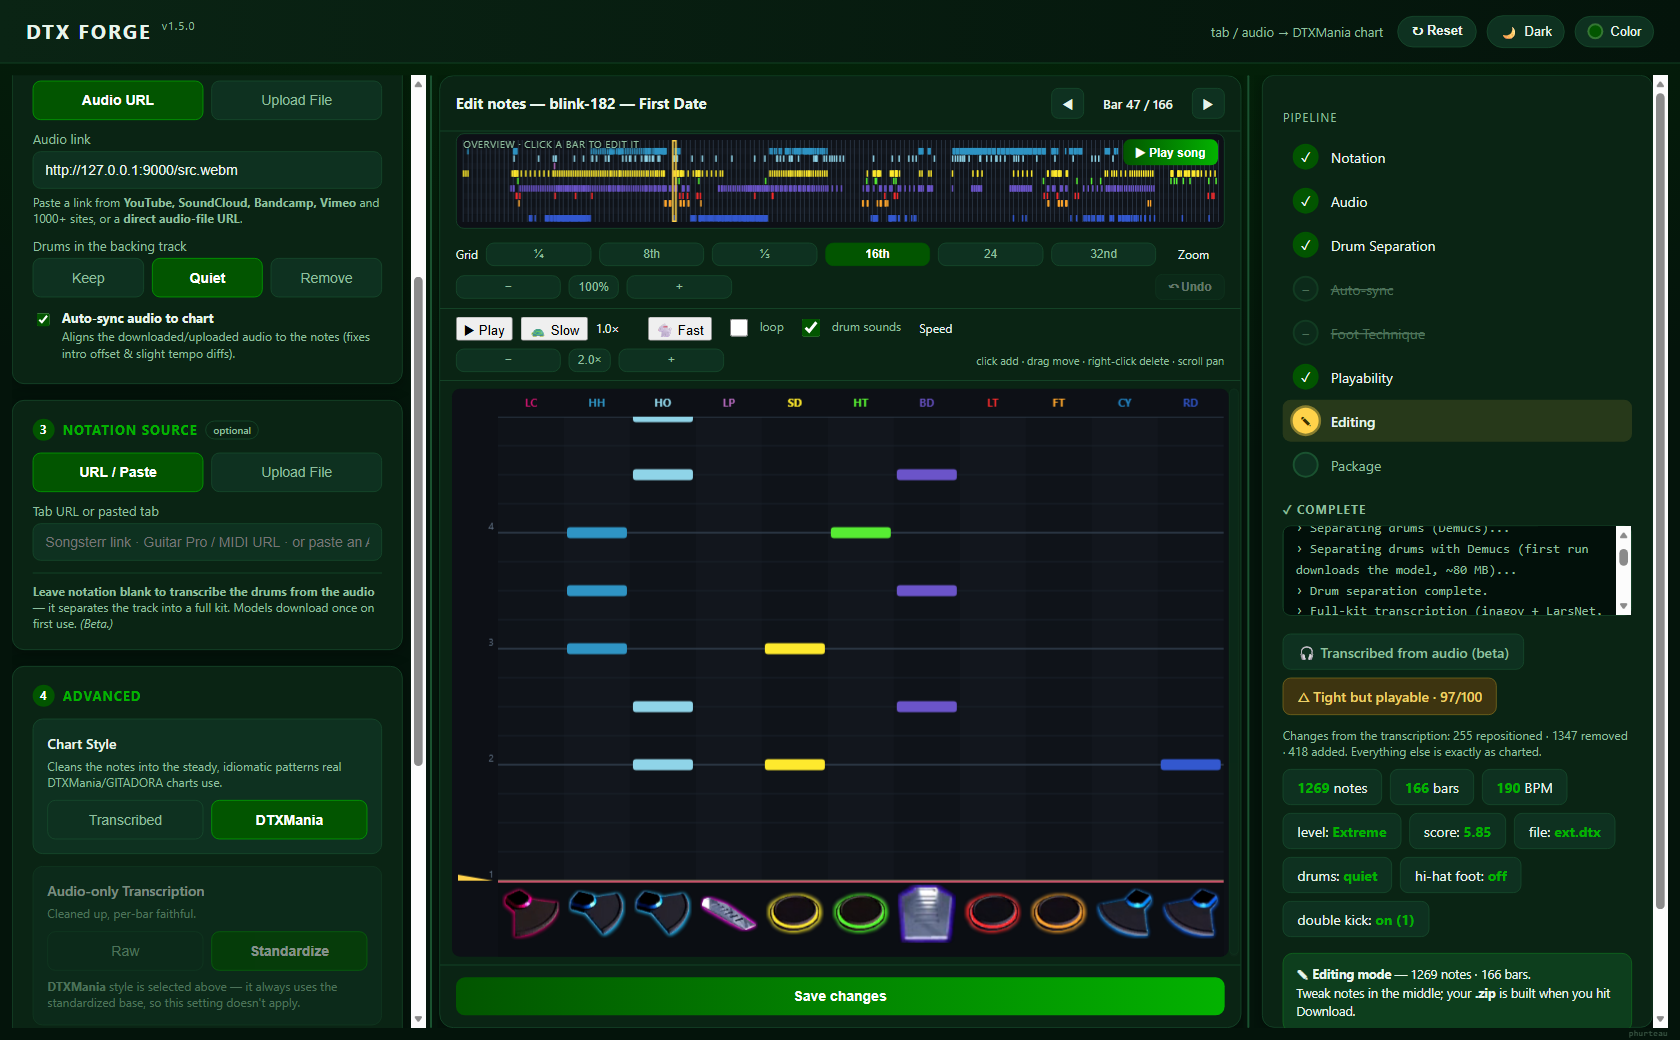
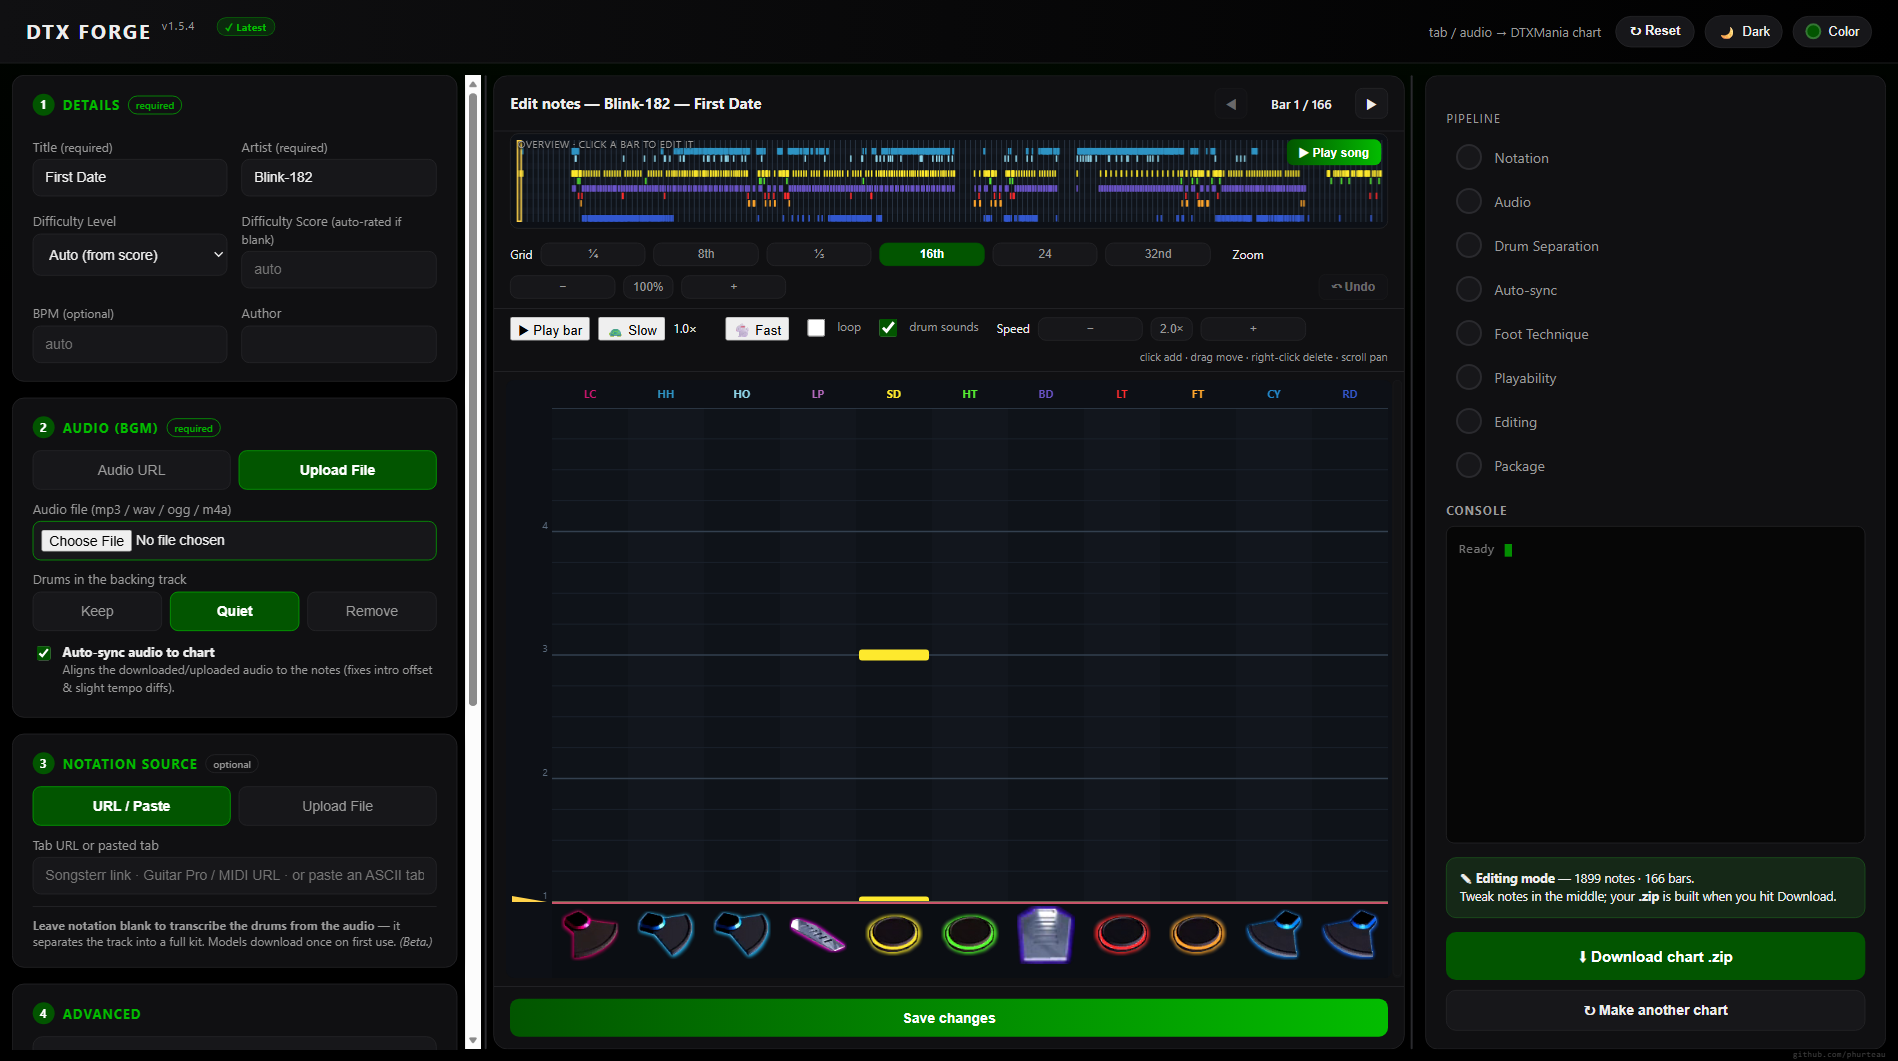
v1.5.4: per-song drum sampling, latest-version indicator, update-bar fix
- Audio-only charts now voice each drum chip with a one-shot sliced from the song's
  own separated stems (kick/snare/toms/hats/ride/crash), so the kit sounds like the
  real recording. Hybrid: any lane without a clean isolated hit keeps the synth sample.
- Header shows a "Latest" badge when on the newest release, and an "Update available"
  badge (plus the download banner) when behind.
- Fix: an empty update bar could render at the top on the latest version (a .hidden vs
  .updbar CSS specificity conflict); the banner now only shows for a genuine update.
- Refresh README screenshot for the black UI + editor.

diff --git a/web/index.html b/web/index.html
@@ -98,6 +98,9 @@
   .stop:disabled{opacity:.4;cursor:not-allowed}
   .stop:hover:not(:disabled){background:#e04434}
   header .ver{font-size:11px;color:var(--dim);letter-spacing:1px;align-self:flex-start;margin:3px 0 0 -4px}
+  header .verstat{font-size:10px;font-weight:700;letter-spacing:.4px;padding:2px 8px;border-radius:10px;margin:2px 0 0 7px;align-self:flex-start;white-space:nowrap}
+  header .verstat.latest{background:color-mix(in srgb,var(--acc2) 16%,transparent);color:var(--acc2);border:1px solid color-mix(in srgb,var(--acc2) 45%,transparent)}
+  header .verstat.behind{background:color-mix(in srgb,var(--acc) 22%,transparent);color:var(--acc-ink);border:1px solid var(--acc);cursor:pointer}
   .panel{flex:1 1 auto;display:flex;flex-direction:column;min-height:0}
   /* visualizer */
   .viz{margin-top:16px;flex:0 0 auto}
@@ -139,6 +142,7 @@
   .hidden{display:none}
   /* ---- update banner ---- */
   .updbar{flex:0 0 auto;display:flex;align-items:center;gap:12px;padding:9px 16px;background:linear-gradient(90deg,var(--acc),var(--acc2));color:var(--acc-ink);font-size:13.5px;font-weight:600;box-shadow:0 2px 10px var(--glow);z-index:20}
+  .updbar.hidden{display:none}
   .updbar .updmsg{flex:1 1 auto;min-width:0}
   .updbar .updbtn{flex:0 0 auto;background:rgba(0,0,0,.22);color:#fff;border:1px solid rgba(255,255,255,.4);border-radius:8px;padding:6px 14px;font-weight:700;font-size:13px;cursor:pointer}
   .updbar .updbtn:hover{background:rgba(0,0,0,.34)}
@@ -196,7 +200,7 @@
   <button class="updx" id="updX" type="button" title="Dismiss">✕</button>
 </div>
 <header>
-  <h1>DTX&nbsp;FORGE</h1><span class="ver" id="verLbl">v1.5.3</span>
+  <h1>DTX&nbsp;FORGE</h1><span class="ver" id="verLbl">v1.5.4</span><span class="verstat hidden" id="verStat"></span>
   <span class="tag">tab / audio → DTXMania chart</span>
   <div class="tools">
     <button class="hdrreset" id="resetForm" type="button" title="Clear everything and start over">↻ Reset</button>
@@ -1132,9 +1136,20 @@ $('#edSave').onclick=()=>{saveEdits(false).catch(e=>alert('Save failed: '+e));};
 async function checkUpdate(){
   let j;
   try{ j=await (await fetch('/api/update-check')).json(); }catch(e){ return; }
-  if(!j||!j.update_available)return;
-  if(localStorage.getItem('dtx_upd_dismiss')===j.latest)return;   // this version was dismissed
+  if(!j||!j.ok)return;                                   // offline / error -> no indicator
+  const vs=$('#verStat');
+  if(!j.update_available){
+    // On the newest release -> subtle "Latest" confirmation next to the version label.
+    if(vs){ vs.textContent='✓ Latest'; vs.title='You’re on the latest version (v'+(j.current||'')+').';
+      vs.classList.remove('hidden','behind'); vs.classList.add('latest'); vs.onclick=null; }
+    return;
+  }
+  // A newer version exists -> mark the header and (unless dismissed) show the download banner.
+  if(vs){ vs.textContent='● Update available'; vs.title='DTX Forge v'+j.latest+' is available.';
+    vs.classList.remove('hidden','latest'); vs.classList.add('behind'); }
   const bar=$('#updBar'),msg=$('#updMsg'),dl=$('#updDl'),notes=$('#updNotes');
+  if(vs) vs.onclick=()=>bar.classList.remove('hidden');   // clicking the pill re-opens a dismissed banner
+  if(localStorage.getItem('dtx_upd_dismiss')===j.latest)return;   // this version was dismissed
   msg.textContent=`DTX Forge v${j.latest} is available (you have v${j.current}).`;
   if(j.html_url){notes.classList.remove('hidden');
     notes.onclick=e=>{e.preventDefault();fetch('/api/open-external',{method:'POST',headers:{'Content-Type':'application/json'},body:JSON.stringify({url:j.html_url})});};}

diff --git a/dtxforge/fullkit.py b/dtxforge/fullkit.py
@@ -195,6 +195,101 @@ def _classify_cymbal(x, sr, p_time, isolated_hat):
     return 42                           # closed hi-hat
 
 
+# --------------------------------------------------------------- per-song kit sampling
+# One-shot lengths per lane (seconds), mirroring the synthesized fallback kit.
+_SAMPLE_DUR = {"bd": 0.30, "sd": 0.22, "ht": 0.34, "lt": 0.35, "ft": 0.40,
+               "hh": 0.09, "ho": 0.30, "cy": 0.85, "rd": 0.48}
+_SAMPLE_MIN_HITS = 2        # need at least this many detected hits to trust a lane
+_SAMPLE_PEAK_FLOOR = 0.0003 # only rejects a digitally-silent/empty stem; separated stems
+                            # are quiet in absolute terms, and every slice is normalized,
+                            # so absolute loudness is NOT a quality signal here.
+_SAMPLE_ATTACK_MIN = 1.4    # THE quality gate: the peak must rise this sharply over the
+                            # 6 ms before it. A real hit (even a soft, sparse tom) clears
+                            # ~1.5; pure bleed/noise/silence stays near 1.0. Density-
+                            # agnostic, so a fast lane is never penalized for close hits.
+
+_SAMPLE_DEBUG = os.environ.get("DTX_SAMPLE_DEBUG")
+
+
+def _stem_for_midi(m, has_isolated_hat):
+    """Which separated stem a GM-midi hit was detected in (mirrors transcribe_stems)."""
+    if m in (35, 36): return "kick"
+    if m in (37, 38, 40): return "snare"
+    if m in (41, 43, 45, 47, 48, 50): return "toms"
+    if m in (42, 44, 46): return "hihat" if has_isolated_hat else "cymbals"
+    return "cymbals"                                    # crash / ride / bell
+
+
+def _pick_cleanest(times, x, sr):
+    """Among candidate onset times pick the loudest, most time-isolated instance (largest
+    gap before it -> the slice won't start mid-decay of a previous hit). Returns
+    (isolation, peak_index, peak_amp, attack) or None. `attack` (peak over the 6 ms just
+    before the transient) measures onset crispness and is used only for the quality gate."""
+    best = None
+    for t in times[:80]:
+        c = int(t * sr)
+        a = max(0, c - int(0.003 * sr)); b = min(len(x), c + int(0.012 * sr))
+        if b <= a:
+            continue
+        pk = a + int(np.argmax(np.abs(x[a:b]))); peak = float(abs(x[pk]))
+        l0 = max(0, pk - int(0.040 * sr)); l1 = max(0, pk - int(0.005 * sr))
+        lead = float(np.sqrt((x[l0:l1] ** 2).mean())) if l1 > l0 else 0.0
+        a0 = max(0, pk - int(0.006 * sr)); a1 = max(0, pk - int(0.001 * sr))
+        atk_pre = float(np.sqrt((x[a0:a1] ** 2).mean())) if a1 > a0 else 0.0
+        isolation = peak / (lead + 1e-4)
+        attack = peak / (atk_pre + 1e-4)
+        if best is None or isolation > best[0]:
+            best = (isolation, pk, peak, attack)
+    return best
+
+
+def extract_kit_samples(stems, sr, hits, has_isolated_hat):
+    """Slice a clean one-shot per lane straight from this song's isolated stems (so toms,
+    snare, etc. sound like the real kit). Hybrid: only lanes with a confidently crisp,
+    loud hit are returned; the caller keeps the synth sample for every other lane."""
+    from collections import defaultdict
+    by_lane = defaultdict(list)
+    for t, m in hits:
+        lab = dtx.MAP.get(m, (None, None))[1]
+        if lab not in _SAMPLE_DUR:
+            continue
+        by_lane[lab].append((t, _stem_for_midi(m, has_isolated_hat)))
+    samples = {}
+    for lab, cand in by_lane.items():
+        n_hits = len(cand)
+        x = stems.get(cand[0][1]) if cand else None
+        best = _pick_cleanest([t for t, _ in cand], x, sr) if (x is not None and np.any(x)) else None
+        passed = False
+        if best is not None and n_hits >= _SAMPLE_MIN_HITS:
+            isolation, pk, peak, attack = best
+            if peak >= _SAMPLE_PEAK_FLOOR and attack >= _SAMPLE_ATTACK_MIN:
+                dn = int(_SAMPLE_DUR[lab] * sr)
+                start = max(0, pk - int(0.002 * sr))
+                seg = x[start:start + dn].astype(np.float64).copy()
+                if len(seg) >= int(0.02 * sr):
+                    fi = max(1, int(0.0015 * sr)); seg[:fi] *= np.linspace(0, 1, fi)
+                    fo = max(1, int(len(seg) * 0.30)); seg[-fo:] *= np.linspace(1, 0, fo) ** 1.5
+                    mx = float(np.max(np.abs(seg))) or 1.0
+                    samples[lab] = seg / mx * 0.9
+                    passed = True
+        if _SAMPLE_DEBUG:
+            if best is not None:
+                iso, _pk, pk_a, atk = best
+                print(f"[sample] {lab}: hits={n_hits} peak={pk_a:.3f} attack={atk:.2f} "
+                      f"iso={iso:.2f} -> {'SAMPLE' if passed else 'synth'}", flush=True)
+            else:
+                print(f"[sample] {lab}: hits={n_hits} (no usable stem) -> synth", flush=True)
+    return samples
+
+
+def save_oneshot(path, seg, sr=44100):
+    """Write a float one-shot as 44.1k/16-bit mono WAV (same format as the synth kit)."""
+    data = (np.clip(np.asarray(seg, dtype=np.float64), -1.0, 1.0) * 32767).astype("<i2")
+    with wave.open(path, "w") as w:
+        w.setnchannels(1); w.setsampwidth(2); w.setframerate(int(sr))
+        w.writeframes(data.tobytes())
+
+
 def transcribe_stems(stems, sr, bpm=None, progress=None, has_isolated_hat=False, standardize=True):
     """Per-stem onset detection + sub-classification -> (events, barlens, bpm, anchor).
     Same event structure as transcribe.from_audio_drums so the pipeline is unchanged."""
@@ -239,7 +334,7 @@ def transcribe_stems(stems, sr, bpm=None, progress=None, has_isolated_hat=False,
     add("cymbals", kind="cymbal")
 
     if not hits:
-        return [{}], [Fraction(1)], round(bpm or 120.0, 3), 0.0
+        return [{}], [Fraction(1)], round(bpm or 120.0, 3), 0.0, {}
 
     # tempo from the kick+snare backbone if not supplied
     if bpm is None:
@@ -251,6 +346,10 @@ def transcribe_stems(stems, sr, bpm=None, progress=None, has_isolated_hat=False,
                 ref = e[0] if ref is None else ref + e[0]
         bpm = T._estimate_bpm(ref, fps) if ref is not None else 120.0
 
+    # Per-song drum voicing: slice a clean one-shot per lane from the isolated stems so
+    # the chart plays this song's actual drums (hybrid - synth fallback per missing lane).
+    samples = extract_kit_samples(stems, sr, hits, has_isolated_hat)
+
     # Standardize (default): quantize to a musical 1/16 grid, de-dupe, and cap
     # simultaneous voices so the raw onsets become a clean, playable chart. When
     # standardize is off, emit exactly what was heard on the fine 1/64 grid with no
@@ -260,7 +359,7 @@ def transcribe_stems(stems, sr, bpm=None, progress=None, has_isolated_hat=False,
         events, barlens, anchor = _std.build_events(hits, bpm, max_hand_voices=2, adaptive=True)
     else:
         events, barlens, anchor = _std.build_events(hits, bpm, grid_div=64, max_hand_voices=999)
-    return events, barlens, round(bpm, 3), anchor
+    return events, barlens, round(bpm, 3), anchor, samples
 
 
 def from_audio_fullkit(drum_wav, bpm=None, progress=None, standardize=True):

diff --git a/dtxforge/pipeline.py b/dtxforge/pipeline.py
@@ -176,14 +176,16 @@ def run(opts, workdir, assets_dir, progress):
         from . import fullkit
         stg("notation", "Full-kit transcription (inagoy + LarsNet, beta)...")
         do_std = do_std_audio
+        kit_samples = {}
         try:
-            events, barlens, bpm2, audio_anchor = fullkit.from_audio_fullkit(
+            events, barlens, bpm2, audio_anchor, kit_samples = fullkit.from_audio_fullkit(
                 drum_stem, bpm=bpm, progress=log, standardize=do_std)
         except Exception as e:
             log(f"Full-kit engines unavailable ({str(e)[:100]}); "
                 f"using the fast kick/snare/hat detector.")
             events, barlens, bpm2, audio_anchor = transcribe.from_audio_drums(
                 drum_stem, bpm=bpm, progress=log, standardize=do_std)
+            kit_samples = {}
         bpm = bpm or bpm2
         # The transcription puts the first detected hit at chart t=0; trim the
         # backing track to start there too so chart and BGM stay in sync.
@@ -191,6 +193,32 @@ def run(opts, workdir, assets_dir, progress):
             log(f"Aligning backing track to first drum hit (trim {audio_anchor:.2f}s).")
             full_wav = audio.trim_start(full_wav, os.path.join(workdir, "full_trim.wav"), audio_anchor)
             drum_stem = audio.trim_start(drum_stem, os.path.join(workdir, "drums_trim.wav"), audio_anchor)
+
+        # ---------- 3c. PER-SONG DRUM VOICING ----------
+        # Voice the chart with one-shots sliced from THIS song's isolated stems (so toms,
+        # snare, etc. sound like the real kit) and fall back to the synth sample per lane
+        # that had no clean, isolated hit. Build a job-local kit dir so the shared
+        # assets/drumkit stays untouched.
+        if kit_samples:
+            import shutil as _sh
+            job_kit = os.path.join(workdir, "kit")
+            os.makedirs(job_kit, exist_ok=True)
+            for _lab, _fn in kit_files.items():
+                _sh.copy2(os.path.join(kit_dir, _fn), os.path.join(job_kit, _fn))
+            saved = []
+            for _lab, _seg in kit_samples.items():
+                _fn = kit_files.get(_lab)
+                if not _fn:
+                    continue
+                try:
+                    fullkit.save_oneshot(os.path.join(job_kit, _fn), _seg)
+                    saved.append(_lab)
+                except Exception:
+                    pass
+            if saved:
+                kit_dir = job_kit
+                log("Sampled real drums from the song: " + ", ".join(sorted(saved))
+                    + " (other lanes use the built-in kit).")
 
     if events is None:
         raise RuntimeError("No notation was produced.")

diff --git a/dtxforge/__init__.py b/dtxforge/__init__.py
@@ -1,2 +1,2 @@
 """DTX Forge - automated DTXManiaNX chart generator."""
-__version__ = "1.5.3"
+__version__ = "1.5.4"

diff --git a/CHANGELOG.md b/CHANGELOG.md
@@ -1,5 +1,19 @@
 # Changelog
 
+## v1.5.4
+
+Per-song drum sounds, a clearer update indicator, and a banner fix.
+
+- **Real drum sounds from your song.** Audio-only charts now voice each drum chip with a one-shot
+  sliced from that song's own separated stems - so the kick, snare, toms, hats, ride and crash
+  sound like the actual recording instead of a fixed synth kit. Any lane without a clean, isolated
+  hit falls back to the built-in kit, so a chart is never silent or garbled.
+- **"Latest" confirmation.** When you're on the newest release the header now shows a subtle
+  "✓ Latest" badge next to the version. When an update exists you get the download banner plus an
+  "● Update available" badge.
+- **Fixed an empty update bar.** A stray blank bar could appear at the top when you were already on
+  the latest version; the update banner now only shows when there's actually a newer release.
+
 ## v1.5.3
 
 Black dark mode, a colour-wheel accent picker, and in-app update notifications.